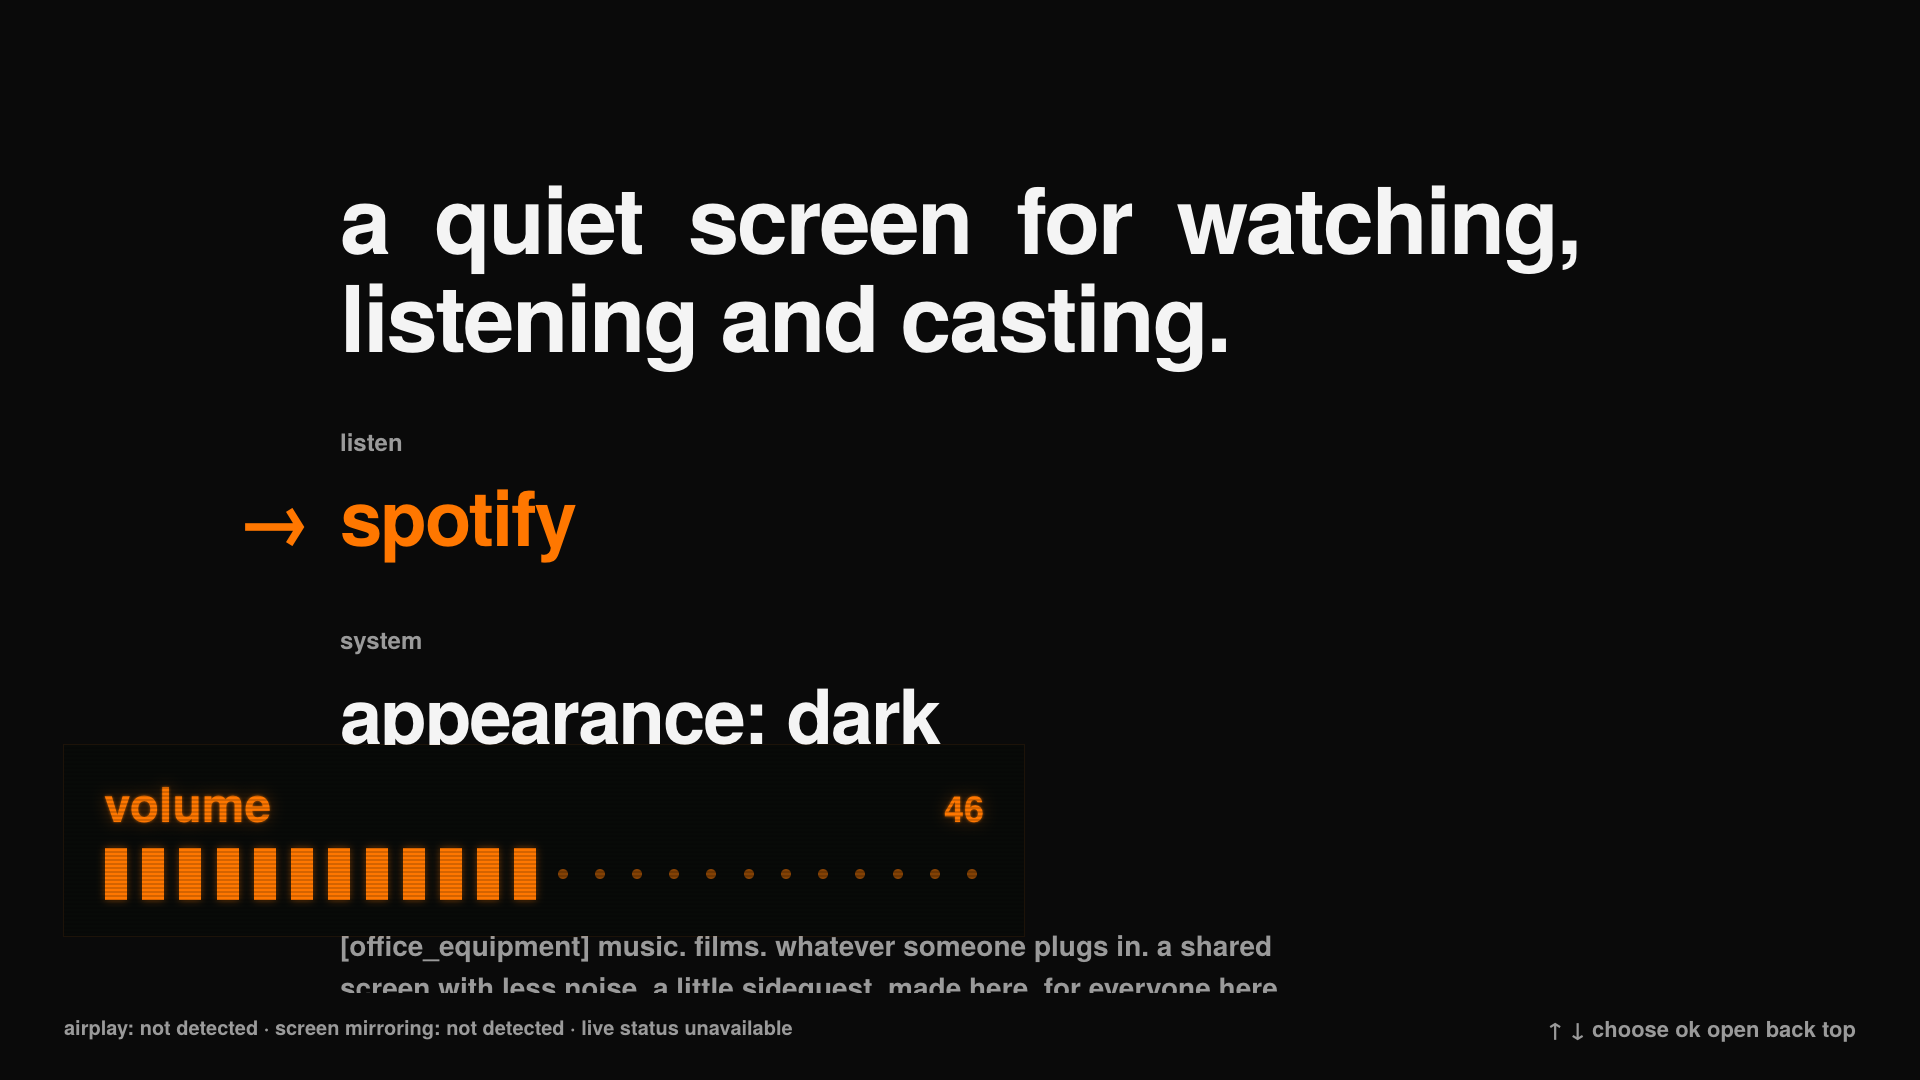
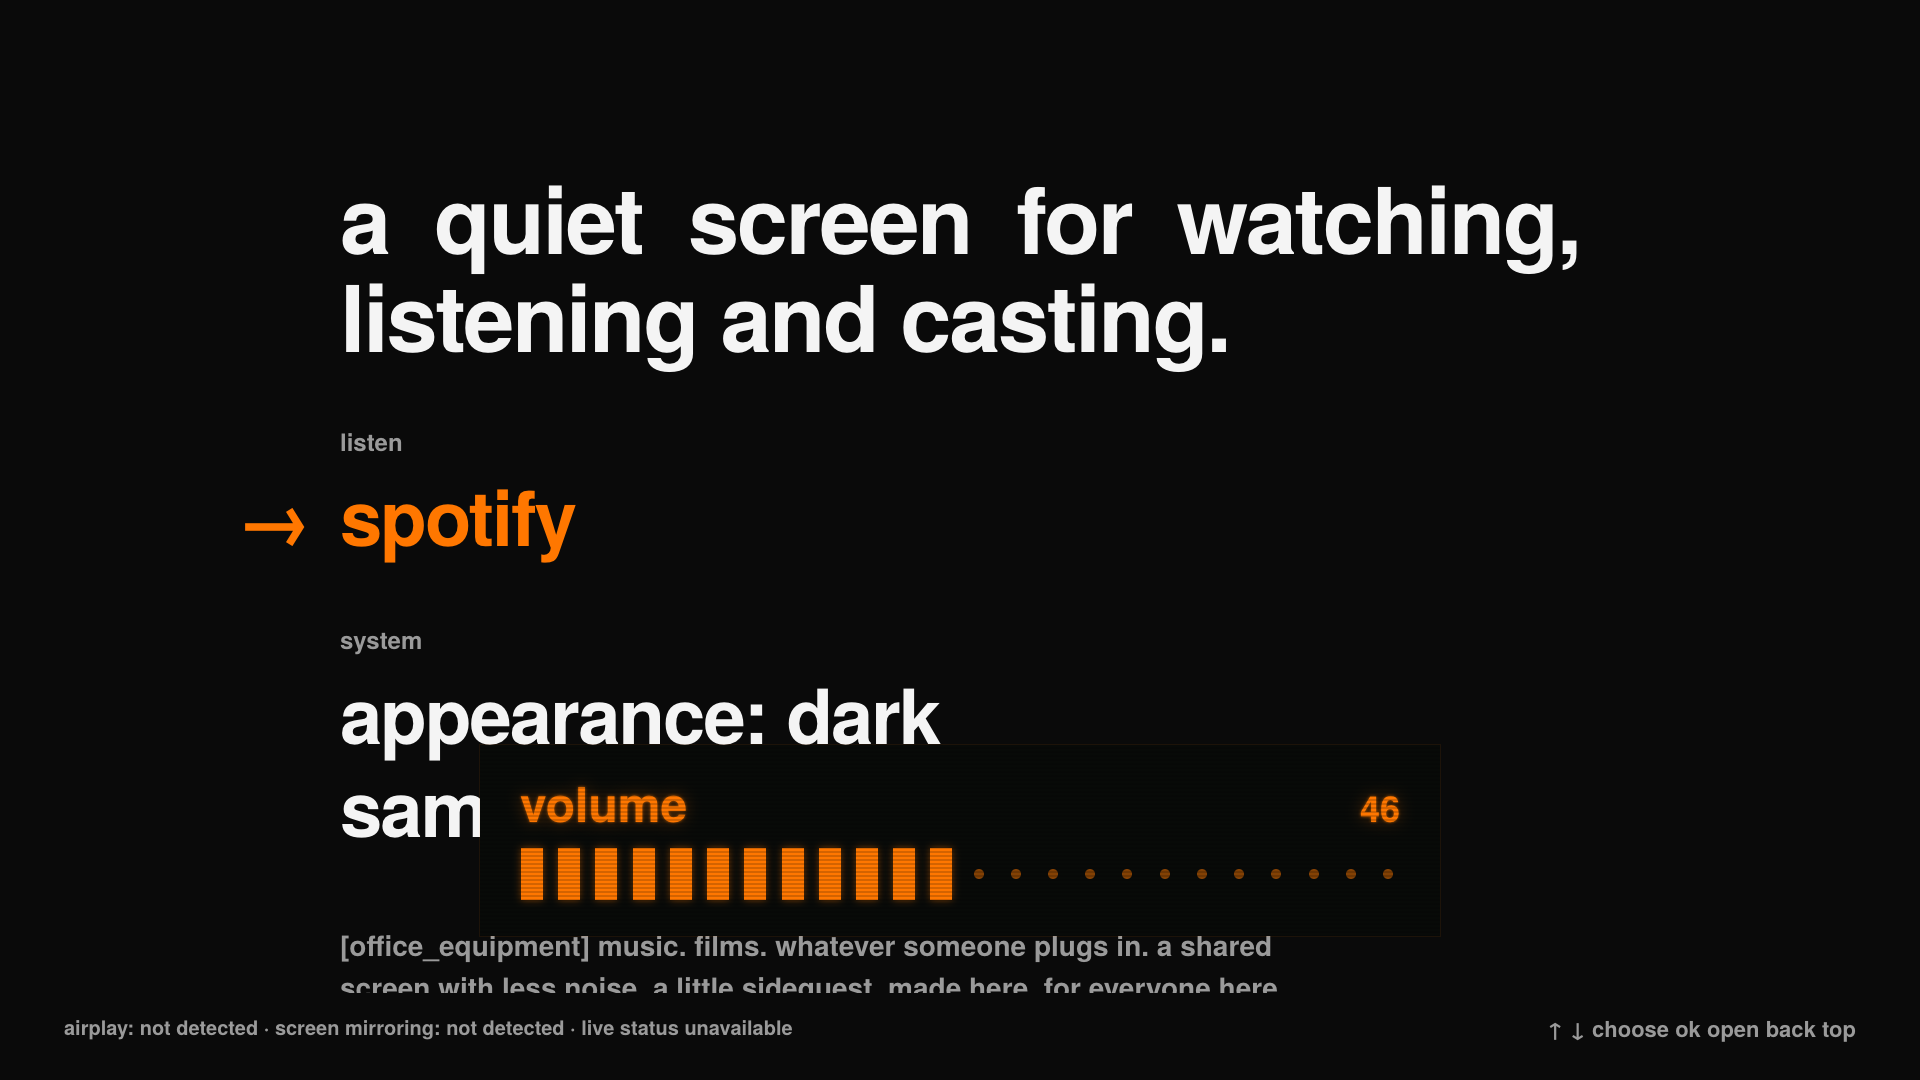
Center CRT volume bar and document native mute limitation

Changed region(s): [[0.0312, 0.7333, 0.5312, 0.8556], [0.6875, 0.7333, 0.75, 0.7639]]

diff --git a/app/style.css b/app/style.css
@@ -165,7 +165,8 @@ h2 {
 
 /* Foreground volume only: bars become dots as the level falls. */
 #volume-osd {
-  position: absolute; z-index: 9; left: var(--edge); bottom: 144px;
+  position: absolute; z-index: 9; left: 50%; bottom: 144px;
+  transform: translateX(-50%);
   width: 960px; padding: 32px 40px 36px;
   background: #080a08; color: var(--orange);
   box-shadow: 0 0 0 1px rgba(255, 119, 0, .08);

diff --git a/docs/VOLUME.md b/docs/VOLUME.md
@@ -4,7 +4,7 @@
 
 ## What is implemented
 
-Version 0.4.0 uses bundled Heros, orange #ff7700, static glow/scanlines, 24 bars which become dots as the level decreases, a numeric TV reading, mute state, and a 2.2-second dismissal. No new selectable menu or duplicate settings page.
+Version 0.4.1 uses bundled Heros, orange #ff7700, static glow/scanlines, 24 bars which become dots as the level decreases, a numeric TV reading, mute state, and a 2.2-second dismissal. No new selectable menu or duplicate settings page.
 
 On foreground entry, actual volume/mute readings must be valid before volume keys are registered. All three keys must register; partial registration is rolled back. Keys request one actual step or mute toggle, then read back the result. If control/readback fails, the OSD hides and key registrations are released. Backgrounding releases keys/listener/timer and clears the popup. Returning samples the current state without replaying an old popup. Volume events cover external level changes; a foreground-only 750ms poll covers mute changes, which have no audio-volume callback.
 
@@ -24,7 +24,9 @@ Private probe output remains under ignored `.local/native-home/`. No native comp
 
 Eight existing logic tests pass. Existing browser navigation/input and loading recovery tests pass. New simulated-TV browser checks cover one step per key, real API readback, mute, 0/100 boundaries, foreground/background cleanup, no stale popup, read failure, partial registration rollback, native fallback and dismissal. Preview was visually inspected.
 
-The signed 0.4.0 package installed and opened successfully. User remote test pending: up/down once each, mute; report orange only, native only or both; confirm audio remains normal. Global volume styling is unresolved, with no verified non-root implementation.
+The signed 0.4.1 package installed and opened successfully. User confirmed the custom bar says “muted,” while Samsung’s native mute popup also appears. This verifies custom key response/display, not native-panel suppression or every audio/output configuration. The bar was moved from the left to horizontal center near the bottom, with an exact geometry assertion in the browser check.
+
+A further read-only symbol/path inspection found mute-specific native banner handlers, a master-mute callback, and internal display-state keys. No semantics or independent suppression control was established, and no internal settings were written. One broad symbol read timed out; a bounded targeted path scan completed. SDB refused a direct binary pull; no binary was exported or published. Global volume styling and suppressing Samsung’s mute indicator remain unresolved, with no verified non-root implementation.
 
 ## Sources
 

diff --git a/README.md b/README.md
@@ -4,13 +4,13 @@ A quiet home screen for a communal Samsung TV: music, films, whatever someone pl
 
 ## Current build
 
-Version 0.4.0, signed, installed and launched on the TV. Physical remote-volume feedback is pending. Spotify comes first, missing apps stay hidden, and connected external inputs are discovered at runtime. The launcher uses bundled fonts and assets, with no analytics or network requests. Appearance offers auto/light/dark; auto calculates San Francisco daylight locally.
+Version 0.4.1, signed, installed and launched on the TV. User confirmed our mute display works, but Samsung’s mute indicator also appears. Spotify comes first, missing apps stay hidden, and connected external inputs are discovered at runtime. The launcher uses bundled fonts and assets, with no analytics or network requests. Appearance offers auto/light/dark; auto calculates San Francisco daylight locally.
 
 The launcher now has a CRT-style loading screen: the same bundled Heros font, pale phosphor glow, static scanlines and an indeterminate segmented activity bar. It clears when initial app/input discovery and font loading settle; it adds no minimum wait and does not replay on foreground return. Back exits early, and a five-second timeout exposes the menu if discovery stalls. Reduced-motion mode keeps the visual treatment without animation. This is app startup UI, not a replacement for Samsung’s firmware boot logo.
 
 ![CRT loading screen](docs/crt-loading.png)
 
-The foreground-only volume OSD uses the same font with orange CRT glow, 24 segments and dots for the remaining range. It reads TV volume and mute through the public audio API, registers volume keys only while our launcher is visible, and dismisses after 2.2 seconds. Other apps and HDMI keep Samsung's own controls. Physical confirmation of key routing, audio response and whether the native panel also appears is pending. See [volume investigation](docs/VOLUME.md).
+The foreground-only volume OSD uses the same font with orange CRT glow, 24 segments and dots for the remaining range. It reads TV volume and mute through the public audio API, registers volume keys only while our launcher is visible, and dismisses after 2.2 seconds. Other apps and HDMI keep Samsung's own controls. The bar is centered horizontally near the bottom. User confirmed our mute display responds, while Samsung’s own mute indicator still appears. Global/native mute-indicator suppression remains unresolved. See [volume investigation](docs/VOLUME.md).
 
 ![Orange CRT volume bar — simulated TV preview](docs/crt-volume.png)
 
